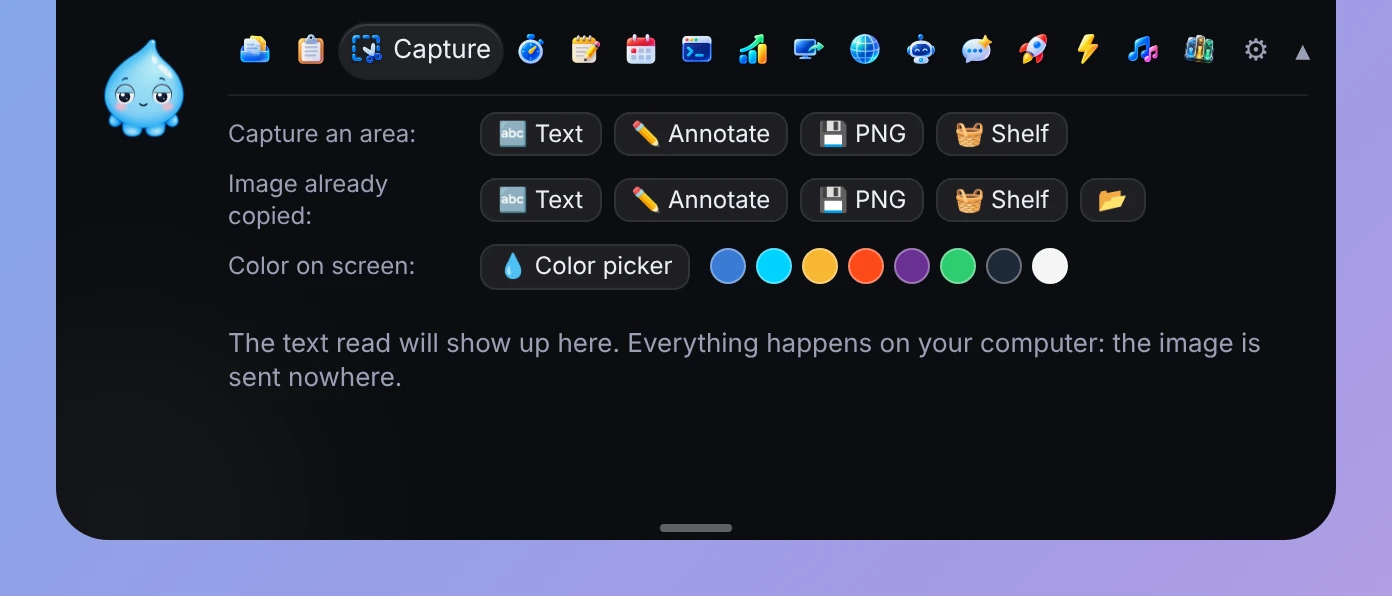
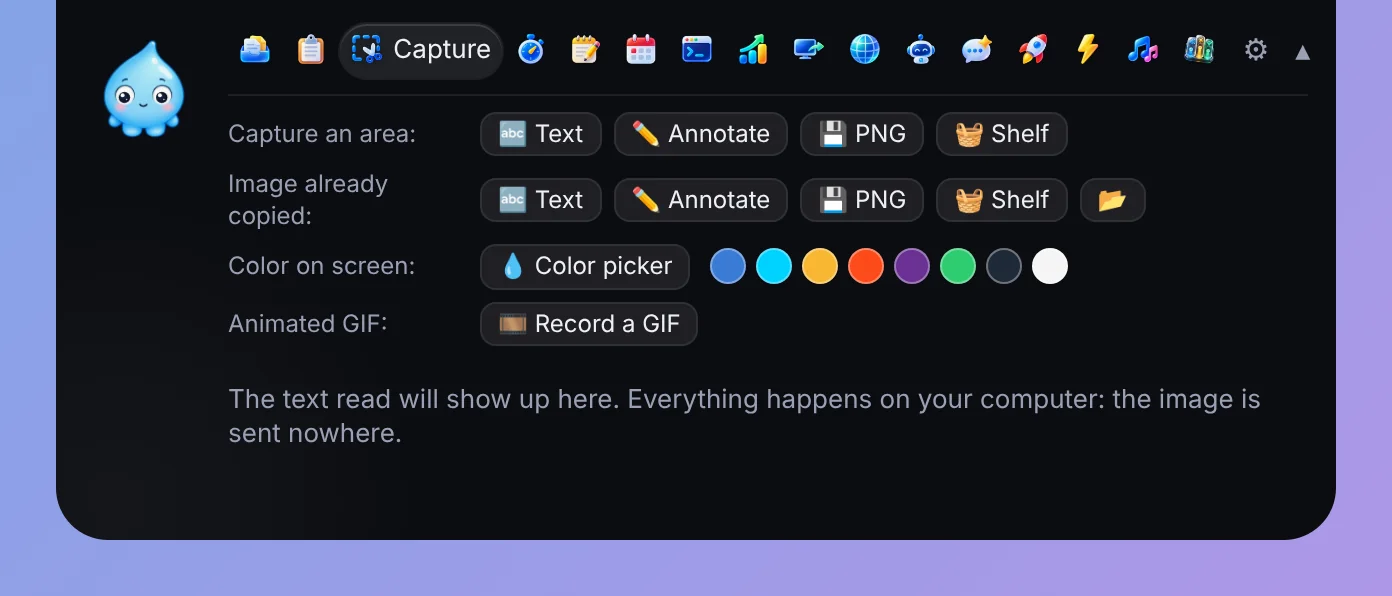
README : section Nouveautés et captures des nouveautés
- README.md et README.en.md : une section « Nouveautés » / « What's new »
  après le sommaire (galerie de 10 captures, une phrase et un lien vers la
  section détaillée pour chacune, puis les nouveautés sans capture), et
  chaque capture à côté de son texte détaillé (Lanceur, Presse-papiers,
  Étagère, Système, Agenda, Agents IA, Mises à jour).
- docs/captures/fr et en : 8 nouvelles captures (calculs du Lanceur,
  décodeur du presse-papiers, vers le téléphone, horloges du monde, bilan de
  fin de tâche, rejoindre la réunion, quoi de neuf, astuce d'onglet) ;
  onglet-controls, onglet-agents et onglet-capture refaites (Sombre,
  Veilleuse et clé USB ; Reprendre ; GIF animé).
- Mode démo : un jeton JWT inventé dans le presse-papiers (à la place de
  « ipconfig /flushdns ») et la dernière phrase de session pour
  « Reprendre » (agents.last_sessions renvoyait null en démo).

Claude-Session: https://claude.ai/code/session_01PJkXqXzqgYwzQRsmaiu2JG

Changed region(s): [[0.1545, 0.4832, 0.9267, 0.755], [0.0618, 0.0604, 0.1236, 0.1812], [0.4634, 0.8758, 0.5251, 0.906]]

diff --git a/src/core/demo.ts b/src/core/demo.ts
@@ -164,13 +164,21 @@ function notes() {
   };
 }
 
+/** Un jeton JWT inventé (bouton « Décoder » du Presse-papiers) : émis il y a 1 h, valable 8 h. */
+function demoJwt(): string {
+  const part = (o: object) => btoa(JSON.stringify(o)).replace(/=+$/, "").replace(/\+/g, "-").replace(/\//g, "_");
+  const iat = Math.floor(Date.now() / 1000 / 60) * 60 - 3600;
+  return `${part({ alg: "HS256", typ: "JWT" })}.${part({ sub: "demo", name: "Camille", role: "support", iat, exp: iat + 8 * 3600 })}.q3vN8kH2pL0sT5wY7zB1cD4fG6jM9nR2tV5xA8eC0Eo`;
+}
+
 function clipboard(query: string) {
+  const jwt = demoJwt();
   const items = [
     { id: 1, preview: "https://ondine.pissits.com", chars: 26, at: Date.now() - 2 * MIN },
+    { id: 5, preview: jwt, chars: jwt.length, at: Date.now() - 5 * MIN },
     { id: 2, preview: "git commit -m \"Ondine 1.0\"", chars: 26, at: Date.now() - 9 * MIN },
     { id: 3, preview: "Rendez-vous jeudi à 14 h devant la gare", chars: 39, at: Date.now() - 40 * MIN },
     { id: 4, preview: "#4FB8FF", chars: 7, at: Date.now() - 2 * 3600_000 },
-    { id: 5, preview: "ipconfig /flushdns", chars: 18, at: Date.now() - 5 * 3600_000 },
   ]
     .map((i) => ({ ...i, pinned: state.pinnedClips.has(i.id) }))
     .filter((i) => !query || i.preview.toLowerCase().includes(query.toLowerCase()));
@@ -532,6 +540,9 @@ export async function demoInvoke(bus: Bus, module: string, command: string, raw:
       return agentsHistory();
     case "agents.projects":
       return { tools: ["claude", "codex", "gemini"], projects: [{ path: `${HOME}\\Projets\\site-ondine`, name: "site-ondine" }] };
+    // « Reprendre » : la dernière phrase de la dernière session du projet.
+    case "agents.last_sessions":
+      return [{ index: 0, found: true, who: "assistant", text: "Le site est à jour.", at: Date.now() - 2 * 3600_000 }];
     case "agents.hook_config":
       return { exe: "C:\\Program Files\\Ondine\\ondine.exe" };
     case "agents.answer":

diff --git a/README.md b/README.md
@@ -28,6 +28,7 @@ La vidéo de présentation est sur le site : [ondine.pissits.com](https://ondine
 
 ## Sommaire
 
+- [Nouveautés](#nouveautés)
 - [Installer](#installer)
 - [Premiers pas](#premiers-pas)
 - [Les onglets](#les-onglets) : [Musique](#musique) · [Contrôles](#contrôles) · [Étagère](#étagère) · [Presse-papiers](#presse-papiers) · [Capture](#capture) · [Minuteur](#minuteur) · [Notes](#notes) · [Agenda](#agenda) · [Terminal](#terminal) · [Système](#système) · [Accès distants](#accès-distants) · [Réseau](#réseau) · [Agents IA](#agents-ia) · [Demander à Claude](#demander-à-claude) · [Lanceur](#lanceur) · [Règles](#règles)
@@ -36,6 +37,43 @@ La vidéo de présentation est sur le site : [ondine.pissits.com](https://ondine
 - [Vie privée et sécurité](#vie-privée-et-sécurité)
 - [Construire depuis les sources](#construire-depuis-les-sources)
 - [Licence et crédits](#licence-et-crédits)
+
+---
+
+## Nouveautés
+
+Ce qui arrive dans la prochaine version (la liste complète est dans le
+[CHANGELOG](CHANGELOG.md)). Cliquez sur une image pour lire le détail.
+
+<table>
+<tr>
+<td width="50%" valign="top"><a href="#lanceur"><img src="docs/captures/fr/lanceur-calcul.webp" width="380" alt="Lanceur : 192.168.1.0/26 donne le nombre d'hôtes, le masque, le réseau et la première adresse"></a><br><b><a href="#lanceur">Calculs dans le Lanceur</a></b> : opérations, pourcentages, unités, octets, sous-réseaux IPv4 et heure dans une autre ville ; Entrée copie le résultat.</td>
+<td width="50%" valign="top"><a href="#presse-papiers"><img src="docs/captures/fr/presse-papiers-decoder.webp" width="380" alt="Presse-papiers : un jeton JWT décodé, avec son algorithme et ses dates d'émission et d'expiration"></a><br><b><a href="#presse-papiers">Décoder une copie</a></b> : un jeton JWT, du Base64, une adresse encodée, du JSON compact ou une date Unix, lus en clair sur votre PC.</td>
+</tr>
+<tr>
+<td width="50%" valign="top"><a href="#étagère"><img src="docs/captures/fr/etagere-telephone.webp" width="380" alt="Étagère : le QR code « Vers le téléphone » pour Présentation.pptx, qui expire dans 4:59"></a><br><b><a href="#étagère">Vers le téléphone</a></b> : un fichier de l'étagère part sur le téléphone par un QR code, sur le même Wi-Fi, sans passer par Internet.</td>
+<td width="50%" valign="top"><a href="#contrôles"><img src="docs/captures/fr/onglet-controls.webp" width="380" alt="Onglet Contrôles : les pastilles Sombre et Veilleuse allumées, et une clé USB KINGSTON avec Éjecter"></a><br><b><a href="#contrôles">Sombre, Veilleuse et clés USB</a></b> : le mode sombre et l'éclairage nocturne de Windows en un clic, et «&nbsp;Éjecter&nbsp;» pour chaque clé USB branchée.</td>
+</tr>
+<tr>
+<td width="50%" valign="top"><a href="#système"><img src="docs/captures/fr/systeme-horloges.webp" width="380" alt="Onglet Système : les horloges de Montréal (−6 h) et de Tokyo (+7 h)"></a><br><b><a href="#système">Horloges du monde</a></b> : jusqu'à 4 villes dans l'onglet Système, avec l'écart d'heure (et «&nbsp;demain&nbsp;» si le jour change).</td>
+<td width="50%" valign="top"><a href="#capture"><img src="docs/captures/fr/onglet-capture.webp" width="380" alt="Onglet Capture : la nouvelle ligne GIF animé, avec Enregistrer un GIF"></a><br><b><a href="#capture">GIF animé</a></b> : une zone de l'écran filmée en GIF animé, rangée avec vos captures et posée sur l'étagère.</td>
+</tr>
+<tr>
+<td width="50%" valign="top"><a href="#agents-ia"><img src="docs/captures/fr/agent-bilan.webp" width="347" alt="Alerte : Claude a fini, 3 fichiers modifiés, +120 −14, avec Y aller, Ouvrir dans VS Code et Terminal ici"></a><br><b><a href="#agents-ia">Quand un agent a fini</a></b> : les fichiers modifiés et «&nbsp;Ouvrir dans VS Code&nbsp;» ; dans l'onglet, «&nbsp;Reprendre&nbsp;» rouvre la dernière session.</td>
+<td width="50%" valign="top"><a href="#agenda"><img src="docs/captures/fr/agenda-rejoindre.webp" width="293" alt="Alerte : Réunion dans 2 min, Revue du site, Google Meet, avec Rejoindre"></a><br><b><a href="#agenda">Rejoindre la réunion</a></b> : deux minutes avant une visio, un clic l'ouvre, met la musique en pause et prévient si le micro est coupé.</td>
+</tr>
+<tr>
+<td width="50%" valign="top"><a href="#mises-à-jour"><img src="docs/captures/fr/quoi-de-neuf.webp" width="358" alt="Alerte : Quoi de neuf dans Ondine 1.0.1, trois nouveautés, avec Tout voir et OK"></a><br><b><a href="#mises-à-jour">Quoi de neuf</a></b> : après une mise à jour, l'île montre une fois les principales nouveautés de la version.</td>
+<td width="50%" valign="top"><a href="#les-onglets"><img src="docs/captures/fr/astuce-onglet.webp" width="380" alt="Onglet Étagère vide, avec la bulle d'astuce : Glissez un fichier sur l'île pour le poser ici"></a><br><b><a href="#les-onglets">Une astuce par onglet</a></b> : la première fois qu'un onglet s'ouvre, une bulle explique son geste principal en une phrase.</td>
+</tr>
+</table>
+
+Et aussi :
+
+- **Empreinte SHA-256** : glissez un fichier sur la cible « Empreinte » ; si vous avez copié une empreinte, Ondine dit si elle est identique ([Étagère](#étagère)).
+- **Réveiller un PC** à distance (Wake-on-LAN), depuis l'onglet ou le Lanceur ([Accès distants](#accès-distants)).
+- **Redémarrage en attente** : l'onglet Système le signale, avec un rappel doux ([Système](#système)).
+- **Bilan de la semaine** : Pomodoros terminés, temps de concentration et tâches cochées ([Sans onglet](#sans-onglet--pauses-météo-et-bilan-de-la-semaine)).
 
 ---
 
@@ -77,6 +115,8 @@ neuf dans Ondine X.Y.Z »** : les trois principales nouveautés de la version
 (tirées du [CHANGELOG](CHANGELOG.md), intégré à l'appli), et **Tout voir**, qui
 ouvre la page de la version sur GitHub. Pour la revoir : Réglages → Général →
 À propos → **Voir les nouveautés**.
+
+<p align="center"><img src="docs/captures/fr/quoi-de-neuf.webp" width="656" alt="Alerte : Quoi de neuf dans Ondine 1.0.1, trois nouveautés, avec Tout voir et OK"></p>
 
 ### Désinstaller
 
@@ -150,7 +190,7 @@ expose déjà.
 
 ### Contrôles
 
-<img src="docs/captures/fr/onglet-controls.webp" width="696" alt="Onglet Contrôles : Wi-Fi, Bluetooth, mode avion, volume, micro, luminosité">
+<img src="docs/captures/fr/onglet-controls.webp" width="696" alt="Onglet Contrôles : Wi-Fi, Bluetooth, mode avion, micro, Sombre, Veilleuse, volume, luminosité, et une clé USB avec Éjecter">
 
 Le volume des haut-parleurs et du micro, la luminosité des écrans, le Wi-Fi,
 le Bluetooth et le mode avion, sans ouvrir Windows. La sortie audio se choisit
@@ -193,6 +233,8 @@ Internet), qui sert ce seul fichier à une adresse secrète (un jeton au hasard 
 ou sur « Arrêter ». La première fois, Windows peut demander d'autoriser Ondine
 sur les **réseaux privés** : acceptez, sinon le téléphone ne trouvera pas le PC.
 
+<img src="docs/captures/fr/etagere-telephone.webp" width="696" alt="Étagère : le QR code « Vers le téléphone » pour Présentation.pptx, son adresse sur le réseau local, Arrêter et le temps restant">
+
 - **Dossiers favoris** : chacun devient une cible quand vous glissez des fichiers sur l'île ; **Lâcher sur un favori** copie (par défaut) ou déplace.
 - **Cibles « Corbeille », « Compresser », « Images » et « Renommer »** (oui)
 - **Cible « Empreinte » (SHA-256)** (oui) : glissez un fichier dessus pour calculer son SHA-256 (un ISO de plusieurs Go marche, avec **Arrêter**). Si le presse-papiers contient une empreinte (MD5, SHA-1, SHA-256 ou SHA-512, seule ou dans une liste `sha256sum` / `certutil`), le même algorithme est calculé et l'île dit **Identique ✓** (en vert) ou **Différente ✗** (en rouge). Le résultat s'affiche en entier, avec **Copier** ; 5 fichiers au plus à la fois.
@@ -218,12 +260,14 @@ ou une adresse encodée (`%20`) ; **Mettre en forme** pour du JSON compact ;
 s'affiche dans l'onglet, avec **Copier** ; tout se fait sur votre PC, rien
 n'est écrit dans le journal.
 
+<img src="docs/captures/fr/presse-papiers-decoder.webp" width="696" alt="Presse-papiers : un jeton JWT décodé, avec l'avertissement sur la signature, l'algorithme, la date d'émission et la date d'expiration (encore valide)">
+
 - **Nombre de copies gardées** : 50 (de 10 à 500 ; les épinglées ne comptent pas)
 - **Nettoyer les liens copiés** (oui) : retire `utm_source`, `fbclid`, `gclid`… ; la notification propose de remettre l'original.
 
 ### Capture
 
-<img src="docs/captures/fr/onglet-capture.webp" width="696" alt="Onglet Capture : texte, annoter, PNG, étagère, pipette et couleurs récentes">
+<img src="docs/captures/fr/onglet-capture.webp" width="696" alt="Onglet Capture : texte, annoter, PNG, étagère, pipette et couleurs récentes, Enregistrer un GIF">
 
 Capturez une zone de l'écran avec l'outil de Windows, puis :
 **Texte** (le texte de l'image est lu par l'OCR de Windows, sur votre PC, hors
@@ -294,6 +338,8 @@ met en pause, et si votre micro est coupé (onglet Contrôles activé),
 une deuxième alerte le dit, avec **Rétablir le micro**. Une seule proposition
 par rendez-vous ; elle remplace le rappel s'il tombe au même moment.
 
+<p align="center"><img src="docs/captures/fr/agenda-rejoindre.webp" width="536" alt="Alerte : Réunion dans 2 min, Revue du site, 17:15 – 18:00, Google Meet, avec Rejoindre"></p>
+
 - **Afficher les rendez-vous des prochains** : 60 jours (7 à 365)
 - **Rappel avant un rendez-vous** : 10 min (0 = jamais)
 - **Proposer de rejoindre la réunion** : 2 min avant (0 = jamais, jusqu'à 30)
@@ -331,6 +377,8 @@ le support le mentionne aussi. Ondine ne redémarre jamais le PC elle-même.
 - **Horloges du monde** (vide) : jusqu'à 4 villes séparées par des virgules, par exemple `Montréal, Tokyo`. L'onglet montre l'heure de chacune, « demain » ou « hier » si le jour diffère, et l'écart avec ici (« +6 h »). Environ 200 grandes villes connues (noms français ou anglais, sans accents si vous voulez) et `UTC` ; une ville inconnue est signalée sous le champ. Les heures sont calculées sur le PC.
 - **Rappeler un redémarrage en attente** (oui) : une notification douce, au plus une fois par jour, après un jour d'attente, jamais pendant un appel (micro utilisé) ni une présentation.
 
+<img src="docs/captures/fr/systeme-horloges.webp" width="696" alt="Onglet Système, plus bas : les horloges de Montréal (08:02, −6 h) et de Tokyo (21:02, +7 h), puis les disques et le réseau">
+
 ### Accès distants
 
 <img src="docs/captures/fr/onglet-remote.webp" width="696" alt="Onglet Accès distants : favoris SSH et RDP avec leur état">
@@ -366,7 +414,7 @@ serveurs, et prévient quand ça coupe.
 
 ### Agents IA
 
-<img src="docs/captures/fr/onglet-agents.webp" width="696" alt="Onglet Agents IA : lancer Claude Code, Codex ou Gemini CLI, sessions en cours, derniers messages">
+<img src="docs/captures/fr/onglet-agents.webp" width="696" alt="Onglet Agents IA : lancer Claude Code, Codex ou Gemini CLI, Reprendre la dernière session du projet, sessions en cours">
 
 Lance **Claude Code**, **Codex** ou **Gemini CLI** dans un de vos projets en un
 clic. Un tableau montre les sessions en cours ; « Y aller » ramène devant la
@@ -388,6 +436,8 @@ fichiers les plus touchés), avec **Ouvrir dans VS Code** (si VS Code est
 installé) et **Terminal ici**. Ondine lance `git status` et `git diff --numstat`
 en lecture seule, 3 secondes au plus ; sans git ou hors d'un dépôt, la
 notification reste comme avant.
+
+<p align="center"><img src="docs/captures/fr/agent-bilan.webp" width="636" alt="Alerte : Claude a fini, 3 fichiers modifiés, +120 −14 (index.html, style.css, README.md), avec Y aller, Ouvrir dans VS Code et Terminal ici"></p>
 
 **Brancher un agent, en 3 étapes :**
 
@@ -455,6 +505,8 @@ minuteur). Il cherche aussi **dans l'île** : notes et tâches, presse-papiers,
 
 Il **calcule** aussi : quand la recherche est un calcul, la réponse vient en
 premier et **Entrée la copie** (petite notification « Copié »).
+
+<img src="docs/captures/fr/lanceur-calcul.webp" width="696" alt="Lanceur : 192.168.1.0/26 donne 62 hôtes, le masque 255.255.255.192, le réseau et la première adresse">
 
 - Calculs : `2 + 3 × 4`, `(1,5 + 2) ^ 2`, `1 200 / 3`, `18 % de 240`, `240 + 18 %`, `15 %` (= 0,15), `racine de 2`. Nombres à la française (virgule, espaces de milliers).
 - Unités : `1 Go en Mio`, `100 Mbit/s en Mo/s`, `90 min en h`, `20 °C en °F`, `10 km -> mi`, `5 lb en kg`. Octets : Ko, Mo, Go, To en puissances de 1000, Kio, Mio, Gio, Tio en 1024 (KB, MiB… aussi ; B = octet, b = bit).

diff --git a/README.en.md b/README.en.md
@@ -28,6 +28,7 @@ The intro video is on the website: [ondine.pissits.com](https://ondine.pissits.c
 
 ## Contents
 
+- [What's new](#whats-new)
 - [Install](#install)
 - [Getting started](#getting-started)
 - [The tabs](#the-tabs): [Music](#music) · [Controls](#controls) · [Shelf](#shelf) · [Clipboard](#clipboard) · [Capture](#capture) · [Timer](#timer) · [Notes](#notes) · [Calendar](#calendar) · [Terminal](#terminal) · [System](#system) · [Remote access](#remote-access) · [Network](#network) · [AI agents](#ai-agents) · [Ask Claude](#ask-claude) · [Launcher](#launcher) · [Rules](#rules)
@@ -36,6 +37,43 @@ The intro video is on the website: [ondine.pissits.com](https://ondine.pissits.c
 - [Privacy and security](#privacy-and-security)
 - [Build from source](#build-from-source)
 - [License and credits](#license-and-credits)
+
+---
+
+## What's new
+
+Coming in the next version (the full list is in the
+[CHANGELOG](CHANGELOG.md)). Click a picture to read the details.
+
+<table>
+<tr>
+<td width="50%" valign="top"><a href="#launcher"><img src="docs/captures/en/lanceur-calcul.webp" width="380" alt="Launcher: 192.168.1.0/26 gives the number of hosts, the mask, the network and the first address"></a><br><b><a href="#launcher">Calculations in the Launcher</a></b>: math, percentages, units, bytes, IPv4 subnets and the time in another city; Enter copies the result.</td>
+<td width="50%" valign="top"><a href="#clipboard"><img src="docs/captures/en/presse-papiers-decoder.webp" width="380" alt="Clipboard: a decoded JWT, with its algorithm and its issue and expiry dates"></a><br><b><a href="#clipboard">Decode a copy</a></b>: a JWT, Base64, an encoded address, compact JSON or a Unix timestamp, read in plain text on your PC.</td>
+</tr>
+<tr>
+<td width="50%" valign="top"><a href="#shelf"><img src="docs/captures/en/etagere-telephone.webp" width="380" alt="Shelf: the “To the phone” QR code for Présentation.pptx, expiring in 4:59"></a><br><b><a href="#shelf">To the phone</a></b>: a file from the shelf goes to your phone through a QR code, on the same Wi-Fi, without going over the Internet.</td>
+<td width="50%" valign="top"><a href="#controls"><img src="docs/captures/en/onglet-controls.webp" width="380" alt="Controls tab: the Dark and Night light toggles on, and a KINGSTON USB drive with Eject"></a><br><b><a href="#controls">Dark, Night light and USB drives</a></b>: Windows dark mode and night light in one click, and "Eject" for each plugged-in USB drive.</td>
+</tr>
+<tr>
+<td width="50%" valign="top"><a href="#system"><img src="docs/captures/en/systeme-horloges.webp" width="380" alt="System tab: the clocks of Montreal (−6 h) and Tokyo (+7 h)"></a><br><b><a href="#system">World clocks</a></b>: up to 4 cities in the System tab, with the time difference (and "tomorrow" when the day changes).</td>
+<td width="50%" valign="top"><a href="#capture"><img src="docs/captures/en/onglet-capture.webp" width="380" alt="Capture tab: the new Animated GIF row, with Record a GIF"></a><br><b><a href="#capture">Animated GIF</a></b>: an area of the screen recorded as an animated GIF, saved with your screenshots and put on the shelf.</td>
+</tr>
+<tr>
+<td width="50%" valign="top"><a href="#ai-agents"><img src="docs/captures/en/agent-bilan.webp" width="347" alt="Alert: Claude is done, 3 files changed, +120 −14, with Go there, Open in VS Code and Terminal here"></a><br><b><a href="#ai-agents">When an agent is done</a></b>: the changed files and "Open in VS Code"; in the tab, "Resume" reopens the last session.</td>
+<td width="50%" valign="top"><a href="#calendar"><img src="docs/captures/en/agenda-rejoindre.webp" width="293" alt="Alert: Meeting in 2 min, Revue du site, Google Meet, with Join"></a><br><b><a href="#calendar">Join the meeting</a></b>: two minutes before a video call, one click opens it, pauses the music and warns you if your mic is muted.</td>
+</tr>
+<tr>
+<td width="50%" valign="top"><a href="#updates"><img src="docs/captures/en/quoi-de-neuf.webp" width="358" alt="Alert: What's new in Ondine 1.0.1, three changes, with See all and OK"></a><br><b><a href="#updates">What's new</a></b>: after an update, the island shows the version's main changes once.</td>
+<td width="50%" valign="top"><a href="#the-tabs"><img src="docs/captures/en/astuce-onglet.webp" width="380" alt="Empty Shelf tab, with the tip bubble: Drag a file onto the island to put it here"></a><br><b><a href="#the-tabs">A tip for each tab</a></b>: the first time a tab opens, a bubble explains its main gesture in one sentence.</td>
+</tr>
+</table>
+
+Also:
+
+- **SHA-256 hash**: drop a file on the "Hash" target; if you copied a hash, Ondine tells you whether it matches ([Shelf](#shelf)).
+- **Wake a remote PC** (Wake-on-LAN), from the tab or the Launcher ([Remote access](#remote-access)).
+- **Pending restart**: the System tab shows it, with a gentle reminder ([System](#system)).
+- **Weekly summary**: completed Pomodoros, focus time and checked tasks ([No tab](#no-tab-breaks-weather-and-weekly-summary)).
 
 ---
 
@@ -74,6 +112,8 @@ X.Y.Z"** once: the version's three main changes (taken from the
 [CHANGELOG](CHANGELOG.md), built into the app), and **See all**, which opens the
 version's page on GitHub. To see it again: Settings → General → About → **See
 what's new**.
+
+<p align="center"><img src="docs/captures/en/quoi-de-neuf.webp" width="656" alt="Alert: What's new in Ondine 1.0.1, three changes, with See all and OK"></p>
 
 ### Uninstall
 
@@ -146,7 +186,7 @@ bar. Ondine only reads what Windows already exposes.
 
 ### Controls
 
-<img src="docs/captures/en/onglet-controls.webp" width="696" alt="Controls tab: Wi-Fi, Bluetooth, airplane mode, volume, microphone, brightness">
+<img src="docs/captures/en/onglet-controls.webp" width="696" alt="Controls tab: Wi-Fi, Bluetooth, airplane mode, mic, Dark, Night light, volume, brightness, and a USB drive with Eject">
 
 Speaker and microphone volume, screen brightness, Wi-Fi, Bluetooth and airplane
 mode, without opening Windows settings. The audio output is picked under the
@@ -187,6 +227,8 @@ address (a random 128-bit token), then closes after one complete download, after
 5 minutes, or on "Stop". The first time, Windows may ask you to allow Ondine on
 **private networks**: accept, otherwise the phone won't find the PC.
 
+<img src="docs/captures/en/etagere-telephone.webp" width="696" alt="Shelf: the “To the phone” QR code for Présentation.pptx, its address on the local network, Stop and the time left">
+
 - **Favorite folders**: each becomes a target when you drag files onto the island; **Dropping on a favorite** copies (default) or moves.
 - **"Recycle Bin", "Compress", "Images" and "Rename" targets** (on)
 - **"Hash" target (SHA-256)** (on): drop a file on it to compute its SHA-256 (a multi-GB ISO works, with **Stop**). If the clipboard contains a hash (MD5, SHA-1, SHA-256 or SHA-512, alone or in a `sha256sum` / `certutil` list), the same algorithm is computed and the island says **Identical ✓** (green) or **Different ✗** (red). The full result is shown, with **Copy**; 5 files at most at a time.
@@ -210,12 +252,14 @@ address (`%20`); **Format** for compact JSON; **Read the date** for a Unix
 timestamp (10 or 13 digits). The result is shown in the tab, with **Copy**;
 everything happens on your PC and nothing is written to the log.
 
+<img src="docs/captures/en/presse-papiers-decoder.webp" width="696" alt="Clipboard: a decoded JWT, with the signature warning, the algorithm, the issue date and the expiry date (still valid)">
+
 - **Number of copies kept**: 50 (10 to 500; pinned items don't count)
 - **Clean copied links** (on): removes `utm_source`, `fbclid`, `gclid`…; the notification offers to restore the original.
 
 ### Capture
 
-<img src="docs/captures/en/onglet-capture.webp" width="696" alt="Capture tab: text, annotate, PNG, shelf, color picker and recent colors">
+<img src="docs/captures/en/onglet-capture.webp" width="696" alt="Capture tab: text, annotate, PNG, shelf, color picker and recent colors, Record a GIF">
 
 Capture an area of the screen with the Windows tool, then: **Text** (the text
 in the image is read by Windows OCR, on your PC, offline), **Annotate** (arrow,
@@ -283,6 +327,8 @@ is muted (with the Controls tab on), a second alert says so, with **Unmute the
 mic**. Only one offer per event; it replaces the reminder if both come at the
 same time.
 
+<p align="center"><img src="docs/captures/en/agenda-rejoindre.webp" width="536" alt="Alert: Meeting in 2 min, Revue du site, 17:15 – 18:00, Google Meet, with Join"></p>
+
 - **Show events for the next**: 60 days (7 to 365)
 - **Reminder before an event**: 10 min (0 = never)
 - **Offer to join the meeting**: 2 min before (0 = never, up to 30)
@@ -319,6 +365,8 @@ restarts the PC itself.
 - **World clocks** (empty): up to 4 cities separated by commas, for example `Montreal, Tokyo`. The tab shows the time in each, "tomorrow" or "yesterday" when the day differs, and the difference with here ("+6 h"). About 200 major cities (French or English names, accents optional) and `UTC`; an unknown city is flagged under the field. Times are computed on the PC.
 - **Remind me of a pending restart** (on): a gentle notification, at most once a day, after a day of waiting, never during a call (mic in use) or a presentation.
 
+<img src="docs/captures/en/systeme-horloges.webp" width="696" alt="System tab, further down: the clocks of Montreal (08:02, −6 h) and Tokyo (21:02, +7 h), then the disks and the network">
+
 ### Remote access
 
 <img src="docs/captures/en/onglet-remote.webp" width="696" alt="Remote access tab: SSH and RDP favorites with their status">
@@ -353,7 +401,7 @@ servers, and tells you when something drops.
 
 ### AI agents
 
-<img src="docs/captures/en/onglet-agents.webp" width="696" alt="AI agents tab: launch Claude Code, Codex or Gemini CLI, running sessions, latest messages">
+<img src="docs/captures/en/onglet-agents.webp" width="696" alt="AI agents tab: launch Claude Code, Codex or Gemini CLI, Resume the project's last session, running sessions">
 
 Launch **Claude Code**, **Codex** or **Gemini CLI** in one of your projects with
 one click. A board shows running sessions; "Go there" brings the right window
@@ -375,6 +423,8 @@ touched files), with **Open in VS Code** (if VS Code is installed) and
 **Terminal here**. Ondine runs `git status` and `git diff --numstat` read-only,
 for 3 seconds at most; without git or outside a repository, the notification
 stays as before.
+
+<p align="center"><img src="docs/captures/en/agent-bilan.webp" width="636" alt="Alert: Claude is done, 3 files changed, +120 −14 (index.html, style.css, README.md), with Go there, Open in VS Code and Terminal here"></p>
 
 **Connect an agent in 3 steps:**
 
@@ -441,6 +491,8 @@ tasks, clipboard, shelf and screenshots. ↑ ↓ to choose, Enter to open.
 
 It also **calculates**: when the search is a calculation, the answer comes first
 and **Enter copies it** (small "Copied" notification).
+
+<img src="docs/captures/en/lanceur-calcul.webp" width="696" alt="Launcher: 192.168.1.0/26 gives 62 hosts, the mask 255.255.255.192, the network and the first address">
 
 - Math: `2 + 3 * 4`, `(1.5 + 2) ^ 2`, `1,200 / 3`, `18% of 240`, `240 + 18%`, `15%` (= 0.15), `sqrt 2`. Numbers follow the interface language (in French: decimal comma, spaces between thousands).
 - Units: `1 GB in MiB`, `100 Mbit/s in MB/s`, `90 min in h`, `20 °C in °F`, `10 km -> mi`, `5 lb in kg`. Bytes: KB, MB, GB, TB are powers of 1000, KiB, MiB, GiB, TiB powers of 1024 (B = byte, b = bit).
